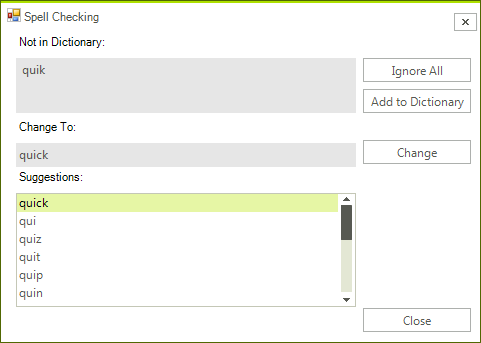
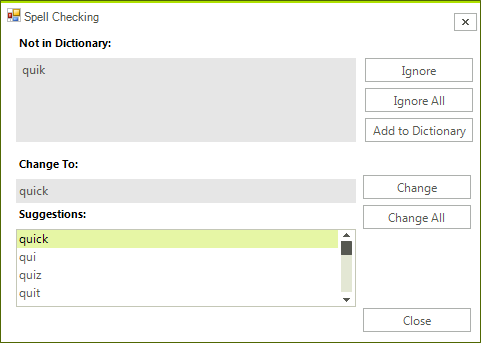
RadSpellChecker - allows changing the word based on the suggested words

diff --git a/spellchecker/localization.md b/spellchecker/localization.md
@@ -29,31 +29,35 @@ class MyEnglishSpellCheckerLocalizationProvider : RadSpellCheckerLocalizationPro
 {
     public override string GetLocalizedString(string id)
     {
-        switch (id)
-        {
-            case RadSpellCheckerStringId.Title:
-                return "Spell Checking";
-            case RadSpellCheckerStringId.OK:
-                return "OK";
-            case RadSpellCheckerStringId.Cancel:
-                return "Cancel";
-            case RadSpellCheckerStringId.Close:
-                return "Close";
-            case RadSpellCheckerStringId.Change:
-                return "Change";
-            case RadSpellCheckerStringId.Complete:
-                return "The spelling check is complete.";
-            case RadSpellCheckerStringId.AddToDictionary:
-                return "Add to Dictionary";
-            case RadSpellCheckerStringId.IngoreAll:
-                return "Ignore All";
-            case RadSpellCheckerStringId.Suggestions:
-                return "Suggestions:";
-            case RadSpellCheckerStringId.ChangeTo:
-                return "Change To:";
-            case RadSpellCheckerStringId.NotInDictionary:
-                return "Not in Dicitionary:";
-        }
+            switch (id)
+            {
+                case RadSpellCheckerStringId.Title:
+                    return "Spell Checking";
+                case RadSpellCheckerStringId.OK:
+                    return "OK";
+                case RadSpellCheckerStringId.Cancel:
+                    return "Cancel";
+                case RadSpellCheckerStringId.Close:
+                    return "Close";
+                case RadSpellCheckerStringId.ChangeAll:
+                    return "Change All";
+                case RadSpellCheckerStringId.Change:
+                    return "Change";
+                case RadSpellCheckerStringId.Complete:
+                    return "The spelling check is complete.";
+                case RadSpellCheckerStringId.AddToDictionary:
+                    return "Add to Dictionary";
+                case RadSpellCheckerStringId.Ingore :
+                    return "Ignore";
+                case RadSpellCheckerStringId.IngoreAll:
+                    return "Ignore All";
+                case RadSpellCheckerStringId.Suggestions:
+                    return "Suggestions:";
+                case RadSpellCheckerStringId.ChangeTo:
+                    return "Change To:";
+                case RadSpellCheckerStringId.NotInDictionary:
+                    return "Not in Dicitionary:";
+            }
         return null;
     }
 }
@@ -72,12 +76,16 @@ Class MyEnglishSpellCheckerLocalizationProvider
                 Return "Cancel"
             Case RadSpellCheckerStringId.Close
                 Return "Close"
+            Case RadSpellCheckerStringId.ChangeAll
+                Return "Change All"
             Case RadSpellCheckerStringId.Change
                 Return "Change"
             Case RadSpellCheckerStringId.Complete
                 Return "The spelling check is complete."
             Case RadSpellCheckerStringId.AddToDictionary
                 Return "Add to Dictionary"
+            Case RadSpellCheckerStringId.Ingore
+                Return "Ignore"
             Case RadSpellCheckerStringId.IngoreAll
                 Return "Ignore All"
             Case RadSpellCheckerStringId.Suggestions
